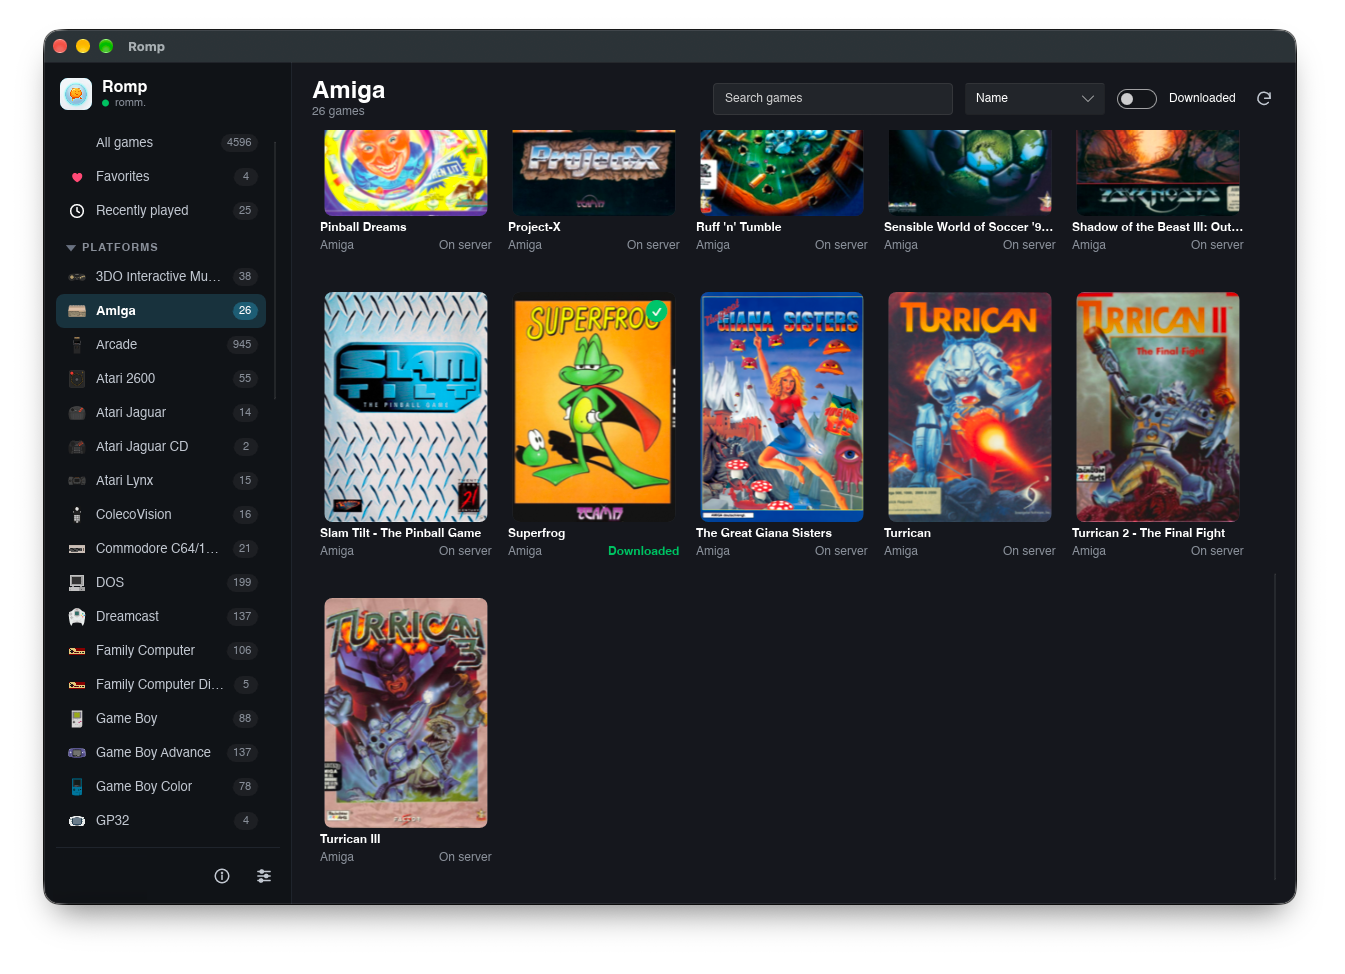
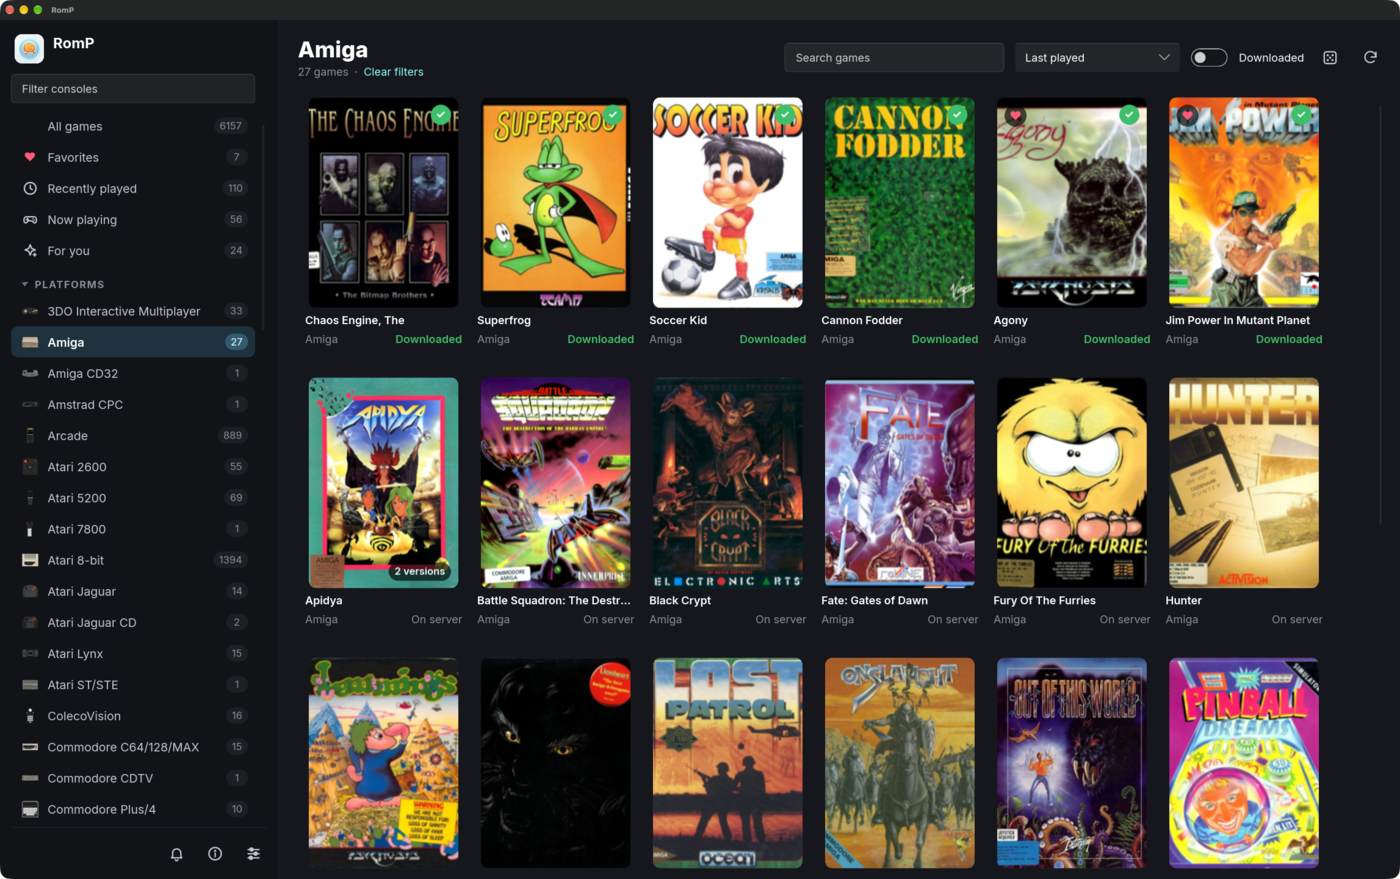
README updates

diff --git a/README.md b/README.md
@@ -19,34 +19,108 @@
 
 <p align="center"><a href="https://rompemu.github.io">rompemu.github.io</a></p>
 
-Download the [latest release](https://github.com/RompEmu/RomP/releases/latest) or the [nightly build](https://github.com/RompEmu/RomP/releases/tag/nightly) for macOS, Windows and Linux. On Linux, pick the AppImage, or the .deb (Debian, Ubuntu) or .rpm (Fedora, openSUSE) to install it with the system's other software. On a Mac you can also install it with [Homebrew](https://brew.sh): `brew install --cask rompemu/tap/romp`. The macOS download of each release is signed and notarized by Apple. Nightly macOS builds aren't: the first time, right-click RomP and choose Open. Windows builds aren't signed yet: the first time, choose More info, then Run anyway.
+## What you need
 
-<p align="center">
-  <img src="docs/screenshots/library.png" alt="The RomP library, showing Amiga games" width="820">
-</p>
+A [RomM](https://romm.app) server, version 5.0 or newer. RomM is a program you host yourself that keeps your game collection, with its box art and details, on a computer or server of your own. RomP is the app you play that collection with: it shows your library, downloads a game when you open it, runs it, and keeps your saves in step with the server.
 
-| Game page | Playing | Nintendo DS |
-|---|---|---|
-| <img src="docs/screenshots/game-page.png" alt="A game's page with its details and cover"> | <img src="docs/screenshots/gameplay.png" alt="A game running in its own window"> | <img src="docs/screenshots/nintendo-ds.png" alt="A Nintendo DS game with its two screens in separate windows"> |
+## Install
+
+Get the [latest release](https://github.com/RompEmu/RomP/releases/latest), or the [nightly build](https://github.com/RompEmu/RomP/releases/tag/nightly) for the newest changes.
+
+- **macOS:** download the release, or install it with [Homebrew](https://brew.sh): `brew install --cask rompemu/tap/romp`. Releases are signed and notarized by Apple. Nightly builds aren't: the first time, right-click RomP and choose Open.
+- **Windows:** download and unzip the release. Builds aren't signed yet: the first time, choose More info, then Run anyway.
+- **Linux:** pick the AppImage, or the .deb (Debian, Ubuntu) or .rpm (Fedora, openSUSE) to install it with the system's other software.
+
+## Getting started
+
+1. Open RomP and enter your RomM server's address.
+2. Approve RomP in RomM by scanning the code or opening the link.
+3. Open a game from your library. RomP downloads it, installs the emulator it needs, and fetches BIOS files from your server's firmware.
+
+Downloaded games stay playable when the server is offline. In-game saves and save states sync with RomM before and after you play, so you can continue on another device. If a save changed in both places, RomP asks which to keep and backs up the other.
+
+The [questions page](https://rompemu.github.io/faq/) has short answers about what RomP needs, what it plays and how save sync works.
+
+<table>
+  <tr>
+    <td width="64%" align="center">
+      <img src="docs/screenshots/library.png" alt="The RomP library showing Amiga games, with downloaded games ticked and a game that has two versions">
+    </td>
+    <td valign="top">
+      <b>Your RomM library</b><br><br>
+      Every console, favorites, collections, recently played and suggestions, with box art shaped like each console's. A tick marks the games already on this computer.
+    </td>
+  </tr>
+  <tr>
+    <td width="64%" align="center">
+      <img src="docs/screenshots/game-page.png" alt="A game's page with its cover, banner, details and overview">
+    </td>
+    <td valign="top">
+      <b>A page for every game</b><br><br>
+      Details and screenshots from RomM, your play time, save slots with pictures and achievements, with one button to download and play.
+    </td>
+  </tr>
+  <tr>
+    <td width="64%" align="center">
+      <img src="docs/screenshots/gameplay.png" alt="A game running in its own window with a CRT look">
+    </td>
+    <td valign="top">
+      <b>Games in their own window</b><br><br>
+      Each game runs in its own sandboxed process, with looks that bring back a CRT television or a handheld's screen.
+    </td>
+  </tr>
+  <tr>
+    <td width="64%" align="center">
+      <img src="docs/screenshots/achievements.png" alt="The achievements list open over a running game">
+    </td>
+    <td valign="top">
+      <b>RetroAchievements</b><br><br>
+      Popups as you earn them, and the full list a button away without leaving the game.
+    </td>
+  </tr>
+  <tr>
+    <td width="64%" align="center">
+      <img src="docs/screenshots/nintendo-ds.png" alt="A Nintendo DS game with its two screens in separate windows">
+    </td>
+    <td valign="top">
+      <b>Two screens, two windows</b><br><br>
+      A Nintendo DS game's screens each get a window you can place and size as you like, with the touch screen played with the mouse.
+    </td>
+  </tr>
+  <tr>
+    <td width="64%" align="center">
+      <img src="docs/screenshots/settings-consoles.png" alt="The Consoles part of Settings, with an emulator choice, graphics and resolution for each console">
+    </td>
+    <td valign="top">
+      <b>Settings for each console</b><br><br>
+      Choose the emulator, Vulkan or OpenGL, and the resolution for each console. Emulators install themselves the first time they're needed.
+    </td>
+  </tr>
+</table>
 
 ## Features
 
-- **Your RomM library:** platforms, favorites, collections, recently played, now playing and backlog, with search, sorting, a Surprise me button for a random game, and box art shaped like each console's.
-- **One click to play:** RomP installs the right emulator and BIOS files. Downloaded games play offline.
-- **Saves that follow you:** in-game saves and save states sync with RomM before and after you play. If both sides changed, you choose which to keep.
+- **Everything in your RomM library:** now playing and backlog lists, a For you list of games RomM recommends, search, sorting, and a Surprise me button for a random game.
+- **Game versions:** a game with several versions in RomM (regions, revisions, translations) shows once, and its page lets you choose which one to play. Multi-disc games play from one save, with discs changed from the game menu.
+- **Saves that follow you:** in-game saves and save states sync with RomM, with a save slot picture for each state.
 - **Sandboxed emulators:** emulators are native code downloaded from the internet, and games are files from anywhere. Each game runs in its own locked-down process that can only write to that game's saves and its own temporary files, so a buggy or malicious emulator or ROM can't touch your other files or take RomP down with it. xemu and RPCS3 run outside the sandbox.
-- **RetroAchievements:** earn achievements as you play, with popups, leaderboards, and an achievement list in the game menu and on each game's page. Hardcore mode comes once RetroAchievements approves RomP, which it considers after an emulator has been public for six months. Only the app talks to RetroAchievements, never the sandboxed emulator.
+- **RetroAchievements:** popups, leaderboards, and an achievement list in the game menu and on each game's page. Hardcore mode comes once RetroAchievements approves RomP, which it considers after an emulator has been public for six months. Only the app talks to RetroAchievements, never the sandboxed emulator.
+- **Looks:** each console can be drawn with sharp pixels, a CRT television's glow and scanlines, or a handheld's screen, chosen in the Looks part of Settings or changed live from the game menu.
 - **Many systems:** from the Atari 2600 to the PS3 and original Xbox, plus arcade and home computers. See [supported systems](#supported-systems).
-- **Controllers and multiplayer:** gamepads join as the next player, rumble when the game does, any key or button can be remapped, and the whole app works with a controller.
+- **Choices for each console:** where a console has more than one emulator you pick which one runs it, and for the 3D consoles you choose the resolution and whether to draw through Vulkan or OpenGL.
+- **Controllers and multiplayer:** gamepads join as the next player, rumble when the game does, and the whole app works with a controller. Buttons can be remapped, for every console or one at a time.
 - **Light guns, mice and keyboards:** for the systems that use them.
-- **In-game menu:** pause, restart, save slots, changing discs, volume and full screen, from the Guide button or Esc.
-- **Two-screen Nintendo DS:** a window per screen, with the mouse as the touch pen.
+- **In-game menu:** pause, restart, save slots, changing discs, looks, volume, screenshots and full screen.
 - **Picks up where you left off:** the last console, game and scroll position, and the size and position of every window.
-- **Interface sizes:** 1x, 1.5x or 2x.
+- **Keeps you posted:** RomP tells you when a newer version is out and what's new in it, and shows RomM's notifications, such as a finished library scan, behind a bell in the sidebar (RomM 5.4 or newer).
+- **In your language:** French, Spanish, German and Arabic so far, with interface sizes of 1x, 1.5x or 2x.
 
 ## Supported systems
 
 RomP downloads the emulator for each system the first time you play one of its games. Where a system has more than one emulator, choose the one it runs on under **Emulator core** in the Consoles part of Settings.
+
+<details>
+<summary>Every system and the emulator that runs it</summary>
 
 | System | Emulator |
 |---|---|
@@ -104,36 +178,15 @@ RomP downloads the emulator for each system the first time you play one of its g
 | Microsoft Xbox | xemu |
 | ZX Spectrum | Fuse |
 
+</details>
+
 All emulators except xemu and RPCS3 are [libretro](https://www.libretro.com) cores. ARMSX2 and FAKE-08 aren't built by libretro, so RomP downloads them from RompEmu's own forks, which build them for each platform. Dolphin, PPSSPP, Flycast, Beetle PSX HW, SwanStation, Mupen64Plus-Next and the PS2 emulators draw through Vulkan when the computer has a working Vulkan driver, and through OpenGL otherwise. Each of them except ARMSX2 can be set to OpenGL instead under **Graphics** in the Consoles part of Settings, and RomP makes that switch itself, and starts the game again, when an emulator's Vulkan graphics stop working. On macOS, Vulkan comes from the bundled [MoltenVK](https://github.com/KhronosGroup/MoltenVK). Some systems need BIOS files, which RomP takes from your RomM server's firmware. PS3 games need the PS3 system software (`PS3UPDAT.PUP`) in RomM's PS3 firmware, and play from a game folder or an ISO, or a zip or 7z of one.
-
-## Running
-
-Requires [rustup](https://rustup.rs) and CMake.
-
-```sh
-cargo build --release
-./target/release/romp
-```
-
-`make dist` packages the app into `dist/`: `RomP.app` and a zip on macOS, a zip on Windows, an AppImage, a .deb, an .rpm and a tarball on Linux (Make downloads a pinned [appimagetool](https://github.com/AppImage/appimagetool) and [nfpm](https://nfpm.goreleaser.com) and checks them). On Windows, run it from Git Bash with Make and 7-Zip installed.
-
-`make check` runs the same checks as CI: formatting, Clippy, tests, [cargo-deny](https://github.com/EmbarkStudios/cargo-deny), [typos](https://github.com/crate-ci/typos), [actionlint](https://github.com/rhysd/actionlint) and [zizmor](https://github.com/zizmorcore/zizmor).
-
-`romp --core <core library> --rom <file>` plays a file without a RomM server, which helps when testing. `ROMP_PLATFORM=snes` (or any RomM platform name) gives it that console's look. With `--smoke <folder>` it plays briefly as a check, saving a frame there, and exits with an error if the game doesn't play; the Smoke test workflow runs this on each packaged build before a release.
-
-`make update-rcheevos` replaces the bundled [rcheevos](https://github.com/RetroAchievements/rcheevos) with its latest release, or a given one with `RCHEEVOS=v12.5.0`.
-
-Enter your RomM server address (RomM 5.0 or newer). Approve RomP in RomM by scanning the code or opening the link.
-
-Open a game from your library to download and play it. RomP installs the emulator core it needs, and fetches BIOS files from your server's firmware. Downloaded games stay playable when the server is offline.
-
-In-game saves and save states sync with RomM before and after you play, so you can continue on another device. If a save changed in both places, RomP asks which to keep and backs up the other.
 
 ## Controls
 
 - Gamepads are picked up automatically: the first one joins the keyboard as player 1, and each new one becomes the next player.
-- Change players or remap any key or button in **Settings → Players**.
-- The Guide button, or Select and Start together, opens the game menu.
+- Change players or remap any key or button in the Players part of Settings. Buttons can also be set separately for each console.
+- The Guide button, or Select and Start together, opens the game menu. The Shortcuts part of Settings can change that to two or three buttons held together, such as L3 + R3, which keeps Guide free for Steam.
 - In Amiga, DOS, C64 and ZX Spectrum games the keyboard types into the game and F12 opens the menu. Click in the game to use your mouse; F12 releases it.
 - Accessories such as the SNES Mouse, Super Scope, Zapper or GunCon are chosen per port in the game menu. A light gun aims where you point and fires with the left button; the right button reloads.
 
@@ -152,9 +205,17 @@ Default keyboard layout:
 | F12 | Screenshot |
 | Esc | Game menu |
 
-Every key except Esc can be changed in Settings → Players, and shortcuts can be combinations such as Ctrl+S.
+Every key except Esc can be changed in the Players part of Settings, and shortcuts can be combinations such as Ctrl+S.
 
-Your games, saves and library cache are stored in `~/Library/Application Support/Romp` on macOS, `%LOCALAPPDATA%\Romp` on Windows and `~/.local/share/Romp` on Linux. Its `logs` folder holds a log of each of the last five launches; About RomP → Show log opens it.
+## Your files and logs
+
+Your games, saves and library cache are stored in `~/Library/Application Support/Romp` on macOS, `%LOCALAPPDATA%\Romp` on Windows and `~/.local/share/Romp` on Linux.
+
+The `logs` folder there holds a log of each of the last five launches. Show log in About RomP opens it, and Copy the last game's log puts the most recent game's part on the clipboard.
+
+If something goes wrong, [open an issue](https://github.com/RompEmu/RomP/issues/new/choose) and paste that log.
+
+Your RomM and RetroAchievements sign-ins are kept in the system's keychain. On a computer with none, such as a Steam Deck in game mode, RomP keeps them in a file in its data folder that only your user account can read.
 
 ## Free, with no catches
 
@@ -174,7 +235,11 @@ A few things to keep in mind:
 
 - Keep placeholders such as `{name}` or `{0}` exactly as they are. You can move them anywhere in the sentence.
 - Leave names as they are: RomP, RomM, RetroAchievements and console names.
-- To see your language in RomP, choose it in Settings → General → Language. RomP follows your system's language once it has translations for it.
+- To see your language in RomP, choose it under Language in the General part of Settings. RomP follows your system's language once it has translations for it.
+
+## Contributing
+
+Bug reports, ideas and pull requests are welcome. [CONTRIBUTING.md](CONTRIBUTING.md) explains how to build RomP, run its checks and send a change. To help translate it, see [Translations](#translations).
 
 ## License
 

diff --git a/CONTRIBUTING.md b/CONTRIBUTING.md
@@ -1,0 +1,55 @@
+# Contributing to RomP
+
+Thanks for wanting to help. This page covers reporting problems, building RomP, and sending a change. To help translate RomP you don't need any of it: see [Translations](README.md#translations).
+
+## Reporting a bug or suggesting something
+
+[Open an issue](https://github.com/RompEmu/RomP/issues/new/choose) with the form that fits: a bug, an idea, or a game that doesn't play. For a bug, the log helps most: in About RomP, Copy the last game's log puts it on the clipboard.
+
+Security problems go through a [private report](https://github.com/RompEmu/RomP/security/advisories/new), so they can be fixed before they're public. Problems that also happen in RomM's own web pages belong with [RomM](https://github.com/rommapp/romm/issues).
+
+## Building
+
+Requires [rustup](https://rustup.rs) and CMake.
+
+```sh
+cargo build --release
+./target/release/romp
+```
+
+`make dist` packages the app into `dist/`: `RomP.app` and a zip on macOS, a zip on Windows, an AppImage, a .deb, an .rpm and a tarball on Linux (Make downloads a pinned [appimagetool](https://github.com/AppImage/appimagetool) and [nfpm](https://nfpm.goreleaser.com) and checks them). On Windows, run it from Git Bash with Make and 7-Zip installed.
+
+## How the code is laid out
+
+RomP is a Rust workspace under `crates/`:
+
+- `romp-app` is the app: the library, settings and game windows, written with [Slint](https://slint.dev), and everything that talks to RomM.
+- `romp-runner` is the sandboxed process each game runs in. It loads the emulator, and hands frames and sound to the app.
+- `romp-proto` holds the messages the app and the runner send each other.
+- `romp-libretro` wraps the libretro API that the emulator cores speak.
+- `romp-cheevos` wraps [rcheevos](https://github.com/RetroAchievements/rcheevos) for RetroAchievements.
+
+## Checks
+
+`make check` runs the same checks as CI: formatting, Clippy, tests, [cargo-deny](https://github.com/EmbarkStudios/cargo-deny), [typos](https://github.com/crate-ci/typos), [actionlint](https://github.com/rhysd/actionlint) and [zizmor](https://github.com/zizmorcore/zizmor).
+
+Text the app shows goes through the translation templates. When you add or change any, run `make translations` and include the updated templates, or `make check` fails.
+
+## Trying a change
+
+`romp --core <core library> --rom <file>` plays a file without a RomM server, which helps when testing. `ROMP_PLATFORM=snes` (or any RomM platform name) gives it that console's look. With `--smoke <folder>` it plays briefly as a check, saving a frame there, and exits with an error if the game doesn't play; the Smoke test workflow runs this on each packaged build before a release.
+
+`make update-rcheevos` replaces the bundled [rcheevos](https://github.com/RetroAchievements/rcheevos) with its latest release, or a given one with `RCHEEVOS=v12.5.0`.
+
+## Sending a change
+
+- Pull requests are welcome. For anything larger than a small fix, open an issue first, so the idea can be talked through before you spend time on it.
+- Run `make check` before sending.
+- Keep commits small, each with a title that says what changes for the person using RomP, such as "Scroll the version menu when it has many versions".
+- Add a line to the Unreleased part of [CHANGELOG.md](CHANGELOG.md) when the change is something a user would notice.
+- AI models and coding agents are part of how software gets written now, and that's fine for changes to RomP. There has to be a person behind every change, though: one who decided to send it, not an agent opening pull requests by itself on someone's behalf. The change is still yours. Don't add a co-author line, or any other credit in the commit, for a tool, agent or model.
+- Translations are done on [Crowdin](https://crowdin.com/project/romp), not through pull requests.
+
+## License
+
+RomP is free software under the [GNU General Public License](LICENSE), version 3 or later. By sending a change you agree to license it the same way.
